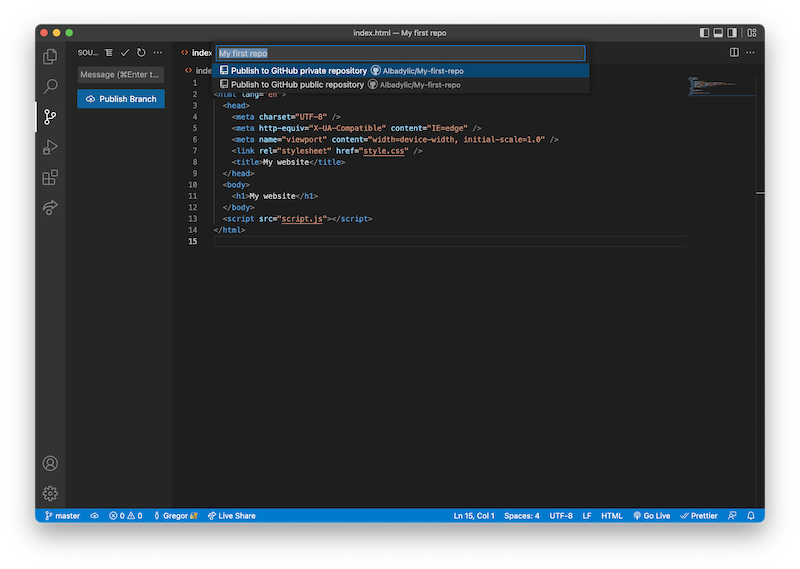
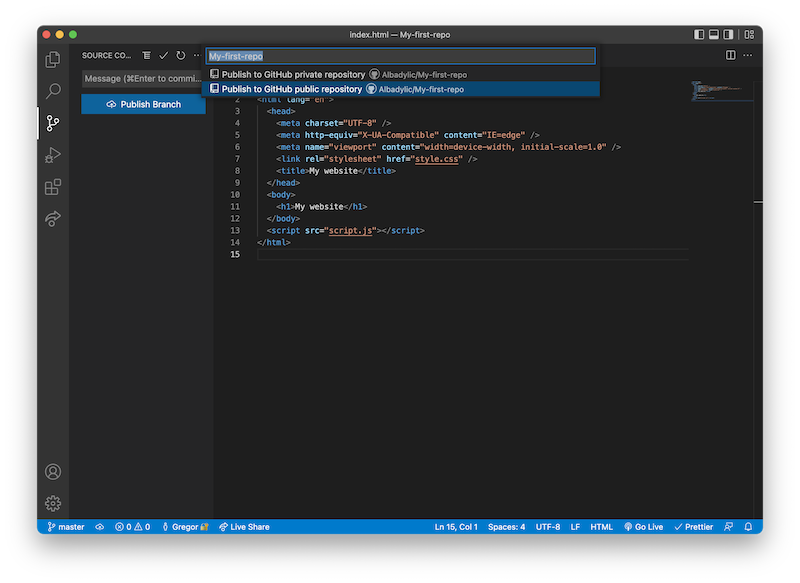
Update git workshop images

Changed region(s): [[0.0312, 0.0299, 0.9688, 0.9262], [0.2188, 0.239, 0.25, 0.2689]]

diff --git a/src/workshops/git-intro/index.md b/src/workshops/git-intro/index.md
@@ -66,10 +66,10 @@ The _source control tab_ in VS Code allows you to use Git within your text edito
    ![Writing a commit message](./images/git-6.jpg)
 1. VS Code will prompt you to publish the branch once you've staged all changes. The first time you click this, you'll need to connect to your GitHub account.
    ![The side panel on VS code now shows a button with the text 'publish branch'](./images/git-7.jpg)
-1. Finally, publish to a new repository
+1. Finally, publish to a new public repository
    ![VS Code offers the user to publish to a private or public repository on GitHub](./images/git-8.jpg)
 
-And that's all! You'll now have published the files to GitHub. If you visit your profile on [GitHub](https://www.github.com) you should now see your repository.
+And that's all! You'll now have published the files to GitHub. If you visit your profile on [GitHub](https://www.github.com) you should now see your repository. You'll need to make your repositories public so that we can view them when you make your application. This does mean they'll be available to anyone who uses the web - so be careful what personal information you share.
 
 ![A repository on GitHub](./images/git-9.jpg)
 
